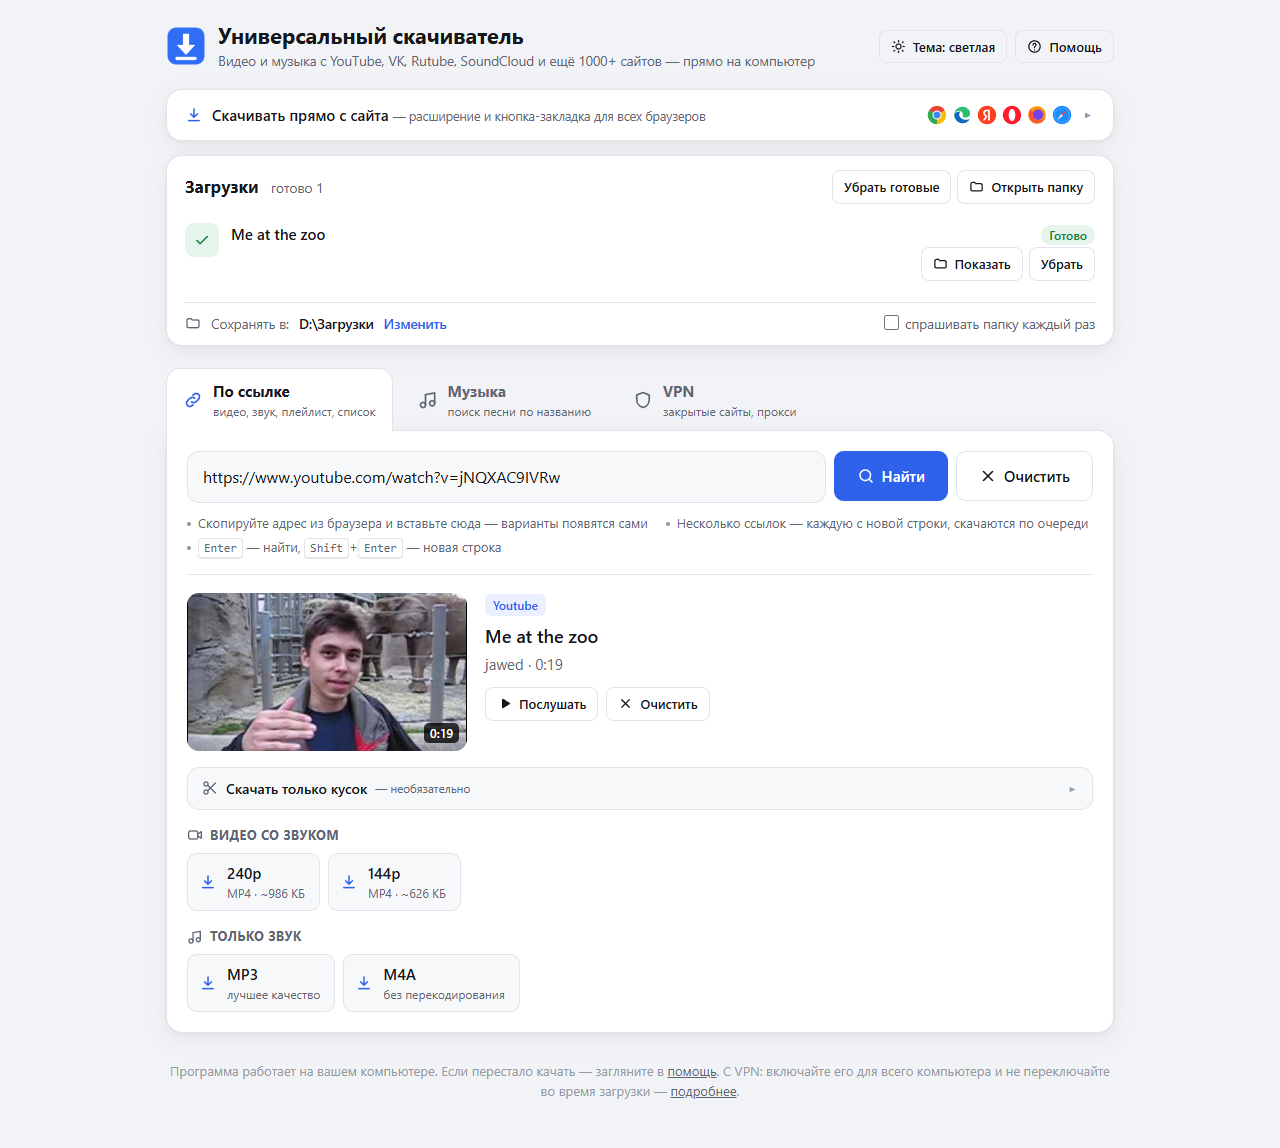
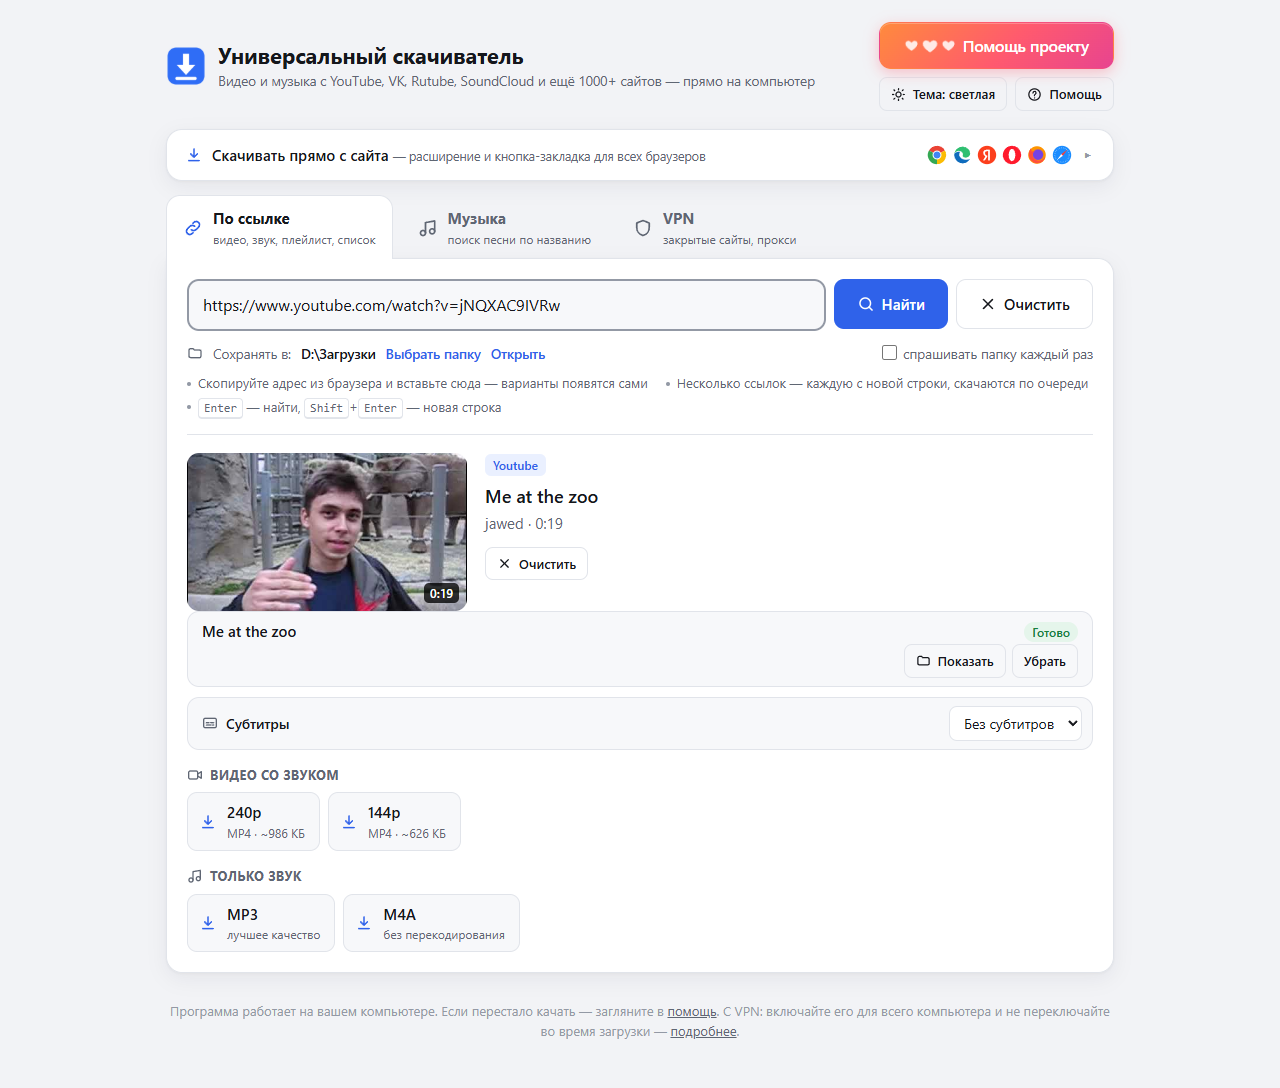
Версия 1.2: прослушивание YouTube ждёт, пока ссылка на поток станет доступна (было 403 при первом включении песни); README — что нового в 1.2, карточка kinogo с выбором «Что скачать», новые скриншоты, «Помощь проекту» первой строкой

diff --git a/app.py b/app.py
@@ -1497,6 +1497,11 @@ def resolve_stream(url):
         raise StreamError(human_error(e)) from None
     if not src:
         raise StreamError('Не нашёл звук по этой ссылке.')
+    # ссылка YouTube (клиент TV) открывается только через несколько секунд, до этого — 403;
+    # при скачивании yt-dlp ждёт сам (available_at), для прослушивания ждём здесь
+    delay = (info.get('available_at') or 0) - time.time()
+    if delay > 0:
+        time.sleep(min(delay, 20))
     if cookie:
         headers['Cookie'] = cookie
     headers.pop('Range', None)

diff --git a/README.md b/README.md
@@ -1,3 +1,5 @@
+❤ **[Помощь проекту](https://www.donationalerts.com/r/olegche)**: https://www.donationalerts.com/r/olegche
+
 # Универсальный скачиватель
 
 Программа для Windows, которая скачивает видео и музыку с YouTube, VK, Rutube, Одноклассников, Дзена, SoundCloud, TikTok, Instagram и ещё 1000+ сайтов.
@@ -15,17 +17,24 @@
 
 - **Видео по ссылке**: MP4 в выбранном качестве, от 144p до 4K. Видео и звук склеиваются сами.
 - **Только звук**: MP3 с обложкой и тегами («Исполнитель – Песня» берётся из названия ролика) или M4A без перекодирования.
-- **Поиск музыки по названию** (на YouTube): компактный список по 10 песен с обложками и кнопкой «Показать ещё 10». MP3 качается в один щелчок, а галочками можно выбрать несколько песен и скачать их одной кнопкой.
+- **Поиск музыки по названию** сразу на YouTube, SoundCloud и Rutube — одним списком по 10 песен с обложками и кнопкой «Показать ещё 10». MP3 качается в один щелчок, а галочками можно выбрать несколько песен и скачать их одной кнопкой.
 - **Послушать перед скачиванием**: плеер внизу страницы с перемоткой, громкостью и переходом к следующей песне. Им можно управлять клавишами и кнопками мультимедиа на клавиатуре.
-- **Кусок видео**: скачать только отрезок «с–до», например одну песню из часового концерта.
+- **Фильмы и сериалы** с kinogo и похожих сайтов (плееры CCDN, ShizaHD, VeoVeo): в карточке «Что скачать» выбираются плеер, сезон и серия — весь сериал, один сезон или одна серия; озвучки — в «Звуковой дорожке».
+- **Звуковая дорожка и субтитры**: у роликов с несколькими языками — выбор дорожки (по умолчанию русская) или все сразу в одном MP4; субтитры — вшить в видео или отдельным `.srt`.
 - **Сжать видео**: кнопка у скачанного ролика делает файл меньше (H.265), исходный остаётся.
 - **Плейлисты и списки ссылок**: целый плейлист или несколько ссылок (каждая с новой строки) качаются по очереди.
+- **Сайты, которые yt-dlp сам не берёт**: ЯП файлы и yaplakal.com, Одноклассники, эфиры COMDI, DTF и vc.ru, d3.ru; TikTok и Instagram без входа; COUB — видео по кругу под длину песни.
 - **Скачать прямо с сайта**: расширение для Chrome, Edge, Яндекс Браузера, Оперы и Firefox или кнопка-закладка (букмарклет) для любого браузера. Открыли видео, нажали кнопку, и программа сама подхватила ссылку. Если программа не запущена, кнопка расширения запустит её.
 - **Встроенные плееры с других сайтов**: если видео на странице в чужом плеере (например, KVS), программа найдёт его сама.
-- **VPN-программа с прокси** (v2rayN, Hiddify, NekoBox, Clash, Happ…): если сайт не открывается напрямую, программа сама найдёт прокси и пойдёт через него.
+- **VPN-программа с прокси** (v2rayN, Hiddify, NekoBox, Clash, Happ…): если сайт не открывается напрямую, программа сама найдёт прокси и пойдёт через него. Галочка «Защищённый DNS» помогает, когда провайдер «не знает» адрес сайта.
 - **Значок у часов**: программа работает в фоне без лишних окон. Меню значка: «Открыть», «Папка загрузок», «Выход». Повторный запуск не плодит вкладки: если страница уже открыта, она мигает заголовком.
 - **Своя папка загрузок**, светлая и тёмная тема, понятные объяснения ошибок на русском.
 - **Сама обновляет yt-dlp** раз в сутки: сайты часто меняют защиту, и свежий yt-dlp это исправляет.
+- **Обновляет и себя**: раз в три дня проверяет новую версию на GitHub и ставит её одной кнопкой (с проверкой SHA-256; если новая версия не запустилась, возвращает старую).
+
+| Сериал с kinogo: «Что скачать» — плеер, сезон и серия |
+|---|
+| ![Карточка сериала «Менталист» с kinogo: выбор плеера (CCDN, ShizaHD, VeoVeo), сезона и серии, варианты качества MP4, MP3 и M4A](docs/screenshots/kinogo.png) |
 
 | Музыка: поиск по названию, галочки и «Скачать MP3 / M4A» | Прослушивание перед скачиванием |
 |---|---|
@@ -76,18 +85,18 @@
 
 ### По ссылке
 1. Скопируйте адрес видео из браузера и вставьте его на вкладке **«По ссылке»**. Варианты появятся сами.
-2. Выберите качество видео или **MP3 / M4A**. Загрузка появится вверху, в блоке «Загрузки».
+2. Выберите качество видео или **MP3 / M4A**. Ход загрузки виден прямо в карточке видео.
 3. Готовый файл можно открыть кнопкой **«Показать»**.
 
 Несколько ссылок качаются по очереди: вставьте их каждую с новой строки (новая строка — <kbd>Shift</kbd>+<kbd>Enter</kbd>).
 Ссылка на плейлист предложит скачать его целиком.
 
-**Кусок видео:** раскройте «Скачать только кусок» и укажите начало и конец (`1:30`, `1:02:15`).
+**Фильм или сериал** (kinogo и похожие сайты): вставьте ссылку на страницу фильма. В блоке «Что скачать» выберите плеер, а у сериала — сезон и серию (или «все»). Если плеер не открылся, попробуйте другой.
 
 ### Музыка
 На вкладке **«Музыка»** напишите исполнителя или название песни. Поиск идёт сразу по YouTube, SoundCloud и Rutube — одним списком, сайт виден в строке песни; если какой-то сайт не открылся, песни найдутся на остальных. Песню с другого сайта скачивайте по ссылке (вариант «Только звук»). Что можно делать с результатами:
 - **MP3**: сразу скачать песню с обложкой и тегами;
-- **Ещё форматы**: видео, M4A или только кусок;
+- **Ещё форматы**: видео или M4A;
 - **▶ на обложке**: послушать перед скачиванием;
 - **галочки**: выбрать несколько песен и скачать их одной кнопкой (MP3 или M4A, по очереди).
 
@@ -116,8 +125,9 @@
 - **VPN** включайте для всего компьютера и не переключайте во время загрузки: ссылки на видео привязаны к адресу, и при смене VPN появится ошибка 403. VPN-расширение в браузере на программу не действует. Если у VPN-программы есть прокси, его можно найти или вписать на вкладке «VPN».
 - Значок не появляется: запустите `Запуск.bat`, он покажет в окне, что не так. Ошибки самой программы пишутся в `program.log`.
 - Чтобы переустановить всё начисто, закройте программу (значок → «Выход»), удалите папки `python` и `bin` и запустите `Запуск.bat`.
+- **Удалить программу** — `Удалить.bat` в её папке: закроет программу, уберёт ярлык и папку, а скачанное внутри папки предложит удалить или перенести на рабочий стол.
 
-<img src="docs/screenshots/help.png" alt="Страница «Помощь»: проверка программы (yt-dlp, ffmpeg, JS-движок, Python, папка загрузок), кнопка «Обновить yt-dlp» и «Как пользоваться»" width="640">
+<img src="docs/screenshots/help.png" alt="Страница «Помощь»: обновление yt-dlp и программы, «Как пользоваться» и «Скачивать прямо с сайта»" width="640">
 
 Некоторые сайты (например, Suno) yt-dlp не поддерживает намеренно, по юридическим причинам. Программа об этом скажет.
 
@@ -129,7 +139,7 @@
 Скачивание делает **[yt-dlp](https://github.com/yt-dlp/yt-dlp)**, видео со звуком склеивает **ffmpeg** (из пакета `imageio-ffmpeg`), YouTube расшифровывает **Deno**. Значок у часов рисует **pystray**.
 
 Сервер принимает запросы только со своей страницы. Он проверяет `Host`, `Origin` и `Sec-Fetch-Site` и принимает только JSON в POST-запросах, поэтому чужие сайты не могут им управлять.
-Для сайтов, с которыми встроенные разборщики yt-dlp не справляются (ЯП файлы, yaplakal.com, Одноклассники, записи эфиров COMDI), в `sites.py` есть свои.
+Для сайтов, с которыми встроенные разборщики yt-dlp не справляются (ЯП файлы, yaplakal.com, Одноклассники, эфиры COMDI, Instagram, DTF/vc.ru, d3.ru, плееры фильмов CCDN, ShizaHD, VeoVeo), в `sites.py` есть свои.
 
 ### Файлы
 
@@ -141,6 +151,8 @@
 | `app.py` | Сервер и вся логика скачивания |
 | `sites.py` | Свои разборщики сайтов для yt-dlp |
 | `splash.py` | Заставка «Запускается…» у часов, пока открывается страница |
+| `updater.py` | Обновление самой программы с GitHub (проверка SHA-256, откат) |
+| `Удалить.bat`, `uninstall.ps1` | Удаление программы |
 | `web/` | Страницы программы: главная и «Помощь» |
 | `extension/` | Расширение для браузеров (Manifest V3, Chromium и Firefox) |
 | `requirements.txt` | Пакеты Python: yt-dlp, flask, imageio-ffmpeg, deno, pystray, pillow |
